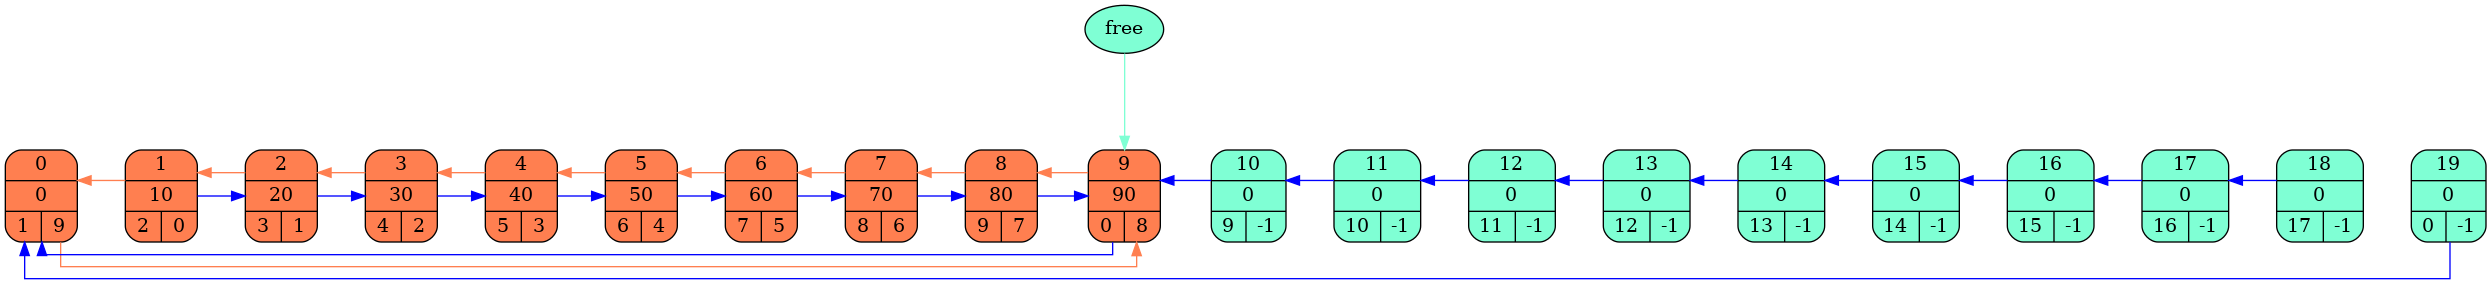
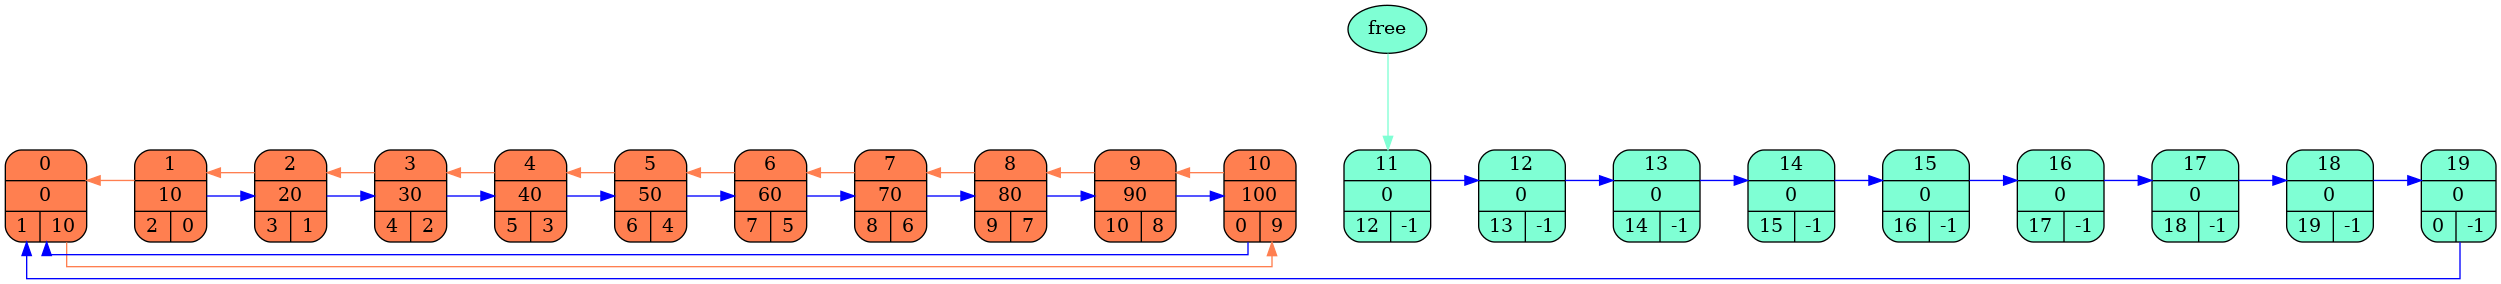
work version

diff --git a/res/log.html b/res/log.html
@@ -189,31 +189,10 @@ prev:
 
 <pre>
 size:     9
-capacity: 10
-head:     0
-tail:     0
-free:     9
-n:
-         0         1         2         3         4         5         6         7         8         9
-
-data:
-         0        10        20        30        40        50        60        70        80        90
-
-next:
-         1         2         3         4         5         6         7         8         9         0
-
-prev:
-         9         0         1         2         3         4         5         6         7         8
-
-
-<img src="../res/output9.png" width="1200" height="250">
-
-<pre>
-size:     9
 capacity: 20
 head:     0
 tail:     0
-free:     9
+free:     10
 n:
          0         1         2         3         4         5         6         7         8         9        10        11        12        13        14        15        16        17        18        19
 
@@ -221,10 +200,31 @@ data:
          0        10        20        30        40        50        60        70        80        90         0         0         0         0         0         0         0         0         0         0
 
 next:
-         1         2         3         4         5         6         7         8         9         0         9        10        11        12        13        14        15        16        17         0
+         1         2         3         4         5         6         7         8         9         0        11        12        13        14        15        16        17        18        19         0
 
 prev:
          9         0         1         2         3         4         5         6         7         8        -1        -1        -1        -1        -1        -1        -1        -1        -1        -1
+
+
+<img src="../res/output9.png" width="1200" height="250">
+
+<pre>
+size:     10
+capacity: 20
+head:     0
+tail:     0
+free:     11
+n:
+         0         1         2         3         4         5         6         7         8         9        10        11        12        13        14        15        16        17        18        19
+
+data:
+         0        10        20        30        40        50        60        70        80        90       100         0         0         0         0         0         0         0         0         0
+
+next:
+         1         2         3         4         5         6         7         8         9        10         0        12        13        14        15        16        17        18        19         0
+
+prev:
+        10         0         1         2         3         4         5         6         7         8         9        -1        -1        -1        -1        -1        -1        -1        -1        -1
 
 
 <img src="../res/output10.png" width="1200" height="250">
@@ -242,7 +242,7 @@ data:
          0        10        20        30        40        50        60        70        80        90         0         0         0         0         0         0         0         0         0         0
 
 next:
-         1         2         3         4         5         6         7         8         9         0         9        10        11        12        13        14        15        16        17         0
+         1         2         3         4         5         6         7         8         9         0        11        12        13        14        15        16        17        18        19         0
 
 prev:
          9         0         1         2         3         4         5         6         7         8        -1        -1        -1        -1        -1        -1        -1        -1        -1        -1
@@ -251,107 +251,170 @@ prev:
 <img src="../res/output11.png" width="1200" height="250">
 
 <pre>
-size:     10
+size:     8
 capacity: 20
 head:     0
 tail:     0
-free:     11
+free:     9
 n:
          0         1         2         3         4         5         6         7         8         9        10        11        12        13        14        15        16        17        18        19
 
 data:
-         0        10        20        30        40        50        60        70        80        90       100         0         0         0         0         0         0         0         0         0
+         0        10        20        30        40        50        60        70        80         0         0         0         0         0         0         0         0         0         0         0
 
 next:
-         1         2         3         4         5         6         7         8         9        10         0        10        11        12        13        14        15        16        17         0
+         1         2         3         4         5         6         7         8         0        10        11        12        13        14        15        16        17        18        19         0
 
 prev:
-        10         0         1         2         3         4         5         6         7         8         9        -1        -1        -1        -1        -1        -1        -1        -1        -1
+         8         0         1         2         3         4         5         6         7        -1        -1        -1        -1        -1        -1        -1        -1        -1        -1        -1
 
 
 <img src="../res/output12.png" width="1200" height="250">
 
 <pre>
-size:     12
+size:     7
 capacity: 20
 head:     0
 tail:     0
-free:     13
+free:     8
 n:
          0         1         2         3         4         5         6         7         8         9        10        11        12        13        14        15        16        17        18        19
 
 data:
-         0        10        20        30        40        50        60        70        80        90       100        35        25         0         0         0         0         0         0         0
+         0        10        20        30        40        50        60        70         0         0         0         0         0         0         0         0         0         0         0         0
 
 next:
-         1         2        12        11         5         6         7         8         9        10         0         4         3        12        13        14        15        16        17         0
+         1         2         3         4         5         6         7         0         9        10        11        12        13        14        15        16        17        18        19         0
 
 prev:
-        12         0         1         2         3         4         5         6         7         8         9         3         2        -1        -1        -1        -1        -1        -1        -1
+         7         0         1         2         3         4         5         6        -1        -1        -1        -1        -1        -1        -1        -1        -1        -1        -1        -1
 
 
 <img src="../res/output13.png" width="1200" height="250">
 
 <pre>
-size:     13
+size:     6
 capacity: 20
 head:     0
 tail:     0
-free:     14
+free:     3
 n:
          0         1         2         3         4         5         6         7         8         9        10        11        12        13        14        15        16        17        18        19
 
 data:
-         0        10        20        30        40        50        60        70        80        90       100        35        25        15         0         0         0         0         0         0
+         0        10        20         0        40        50        60        70         0         0         0         0         0         0         0         0         0         0         0         0
 
 next:
-         1        13        12        11         5         6         7         8         9        10         0         4         3         2        13        14        15        16        17         0
+         1         2         4         8         5         6         7         0         9        10        11        12        13        14        15        16        17        18        19         0
 
 prev:
-        13         0         1         2         3         4         5         6         7         8         9         3         2         1        -1        -1        -1        -1        -1        -1
+         7         0         1        -1         2         4         5         6        -1        -1        -1        -1        -1        -1        -1        -1        -1        -1        -1        -1
 
 
 <img src="../res/output14.png" width="1200" height="250">
 
 <pre>
-size:     13
+size:     5
 capacity: 20
 head:     0
 tail:     0
-free:     14
+free:     3
 n:
          0         1         2         3         4         5         6         7         8         9        10        11        12        13        14        15        16        17        18        19
 
 data:
-         0        10        15        20        25        30        35        40        50        60        70        80        90       100         0         0         0         0         0         0
+         0        10        20         0        40         0        60        70         0         0         0         0         0         0         0         0         0         0         0         0
 
 next:
-         1         2         3         4         5         6         7         8         9        10        11        12        13         0        15        16        17        18        19         0
+         1         2         4         8         6         3         7         0         9        10        11        12        13        14        15        16        17        18        19         0
 
 prev:
-        13         0         1         2         3         4         5         6         7         8         9        10        11        12        -1        -1        -1        -1        -1        -1
+         7         0         1        -1         2        -1         4         6        -1        -1        -1        -1        -1        -1        -1        -1        -1        -1        -1        -1
 
 
 <img src="../res/output15.png" width="1200" height="250">
 
 <pre>
-size:     13
+size:     6
 capacity: 20
 head:     0
 tail:     0
-free:     14
+free:     5
 n:
          0         1         2         3         4         5         6         7         8         9        10        11        12        13        14        15        16        17        18        19
 
 data:
-         0        10        15        20        25        30        35        40        50        60        70        80        90       100         0         0         0         0         0         0
+         0        10        20        35        40         0        60        70         0         0         0         0         0         0         0         0         0         0         0         0
 
 next:
-         1         2         3         4         5         6         7         8         9        10        11        12        13         0        15        16        17        18        19         0
+         1         2         3         4         6         3         7         0         9        10        11        12        13        14        15        16        17        18        19         0
 
 prev:
-        13         0         1         2         3         4         5         6         7         8         9        10        11        12        -1        -1        -1        -1        -1        -1
+         7         0         1         2         3        -1         4         6        -1        -1        -1        -1        -1        -1        -1        -1        -1        -1        -1        -1
 
 
 <img src="../res/output16.png" width="1200" height="250">
+
+<pre>
+size:     7
+capacity: 20
+head:     0
+tail:     0
+free:     8
+n:
+         0         1         2         3         4         5         6         7         8         9        10        11        12        13        14        15        16        17        18        19
+
+data:
+         0        10        20        35        40        25        60        70         0         0         0         0         0         0         0         0         0         0         0         0
+
+next:
+         1         2         5         4         6         3         7         0         9        10        11        12        13        14        15        16        17        18        19         0
+
+prev:
+         7         0         1         5         3         2         4         6        -1        -1        -1        -1        -1        -1        -1        -1        -1        -1        -1        -1
+
+
+<img src="../res/output17.png" width="1200" height="250">
+
+<pre>
+size:     8
+capacity: 20
+head:     0
+tail:     0
+free:     9
+n:
+         0         1         2         3         4         5         6         7         8         9        10        11        12        13        14        15        16        17        18        19
+
+data:
+         0        10        20        35        40        25        60        70        15         0         0         0         0         0         0         0         0         0         0         0
+
+next:
+         1         8         5         4         6         3         7         0         2        10        11        12        13        14        15        16        17        18        19         0
+
+prev:
+         7         0         8         5         3         2         4         6         1        -1        -1        -1        -1        -1        -1        -1        -1        -1        -1        -1
+
+
+<img src="../res/output18.png" width="1200" height="250">
+
+<pre>
+size:     8
+capacity: 20
+head:     0
+tail:     0
+free:     9
+n:
+         0         1         2         3         4         5         6         7         8         9        10        11        12        13        14        15        16        17        18        19
+
+data:
+         0        10        15        20        25        35        40        60        70         0         0         0         0         0         0         0         0         0         0         0
+
+next:
+         1         2         3         4         5         6         7         8         0        10        11        12        13        14        15        16        17        18        19         0
+
+prev:
+         8         0         1         2         3         4         5         6         7        -1        -1        -1        -1        -1        -1        -1        -1        -1        -1        -1
+
+
+<img src="../res/output19.png" width="1200" height="250">
 

diff --git a/list.cpp b/list.cpp
@@ -51,7 +51,6 @@ void list_sort(list *lst) {
     assert(lst != nullptr && "null pointer");
 
     arr_list *data_sort = (arr_list *) calloc(lst->capacity, sizeof(arr_list));
-    printf("hgfgf\n");
     int next = lst->data[lst->head].next;
     unsigned i = 1;
     data_sort[0].elem = 0;
@@ -63,6 +62,8 @@ void list_sort(list *lst) {
         data_sort[i].next = i + 1;
         data_sort[i].prev = i - 1;
     }
+
+    lst->free = i;
 
     data_sort[0].prev = i - 1;
     data_sort[i - 1].next = 0;
@@ -78,7 +79,6 @@ void list_sort(list *lst) {
 
     lst->data = data_sort;
     lst->is_sorted = true;
-    dump(lst);
 }
 
 void list_realloc(list *lst) {
@@ -102,7 +102,7 @@ void list_realloc(list *lst) {
         
         for (; i < lst->capacity; i++) {
             data_copy[i].elem = 0;
-            data_copy[i].next = i - 1;
+            data_copy[i].next = i + 1;
             data_copy[i].prev = -1;
         }
 
@@ -110,7 +110,6 @@ void list_realloc(list *lst) {
         free(lst->data);
         lst->data = data_copy;
     }
-    dump(lst);
 }
 
 int list_insert(list *lst, int ind, elem_data_t value) {
@@ -123,11 +122,10 @@ int list_insert(list *lst, int ind, elem_data_t value) {
     lst->data[lst->free].elem = value;
     lst->data[lst->free].next = lst->data[ind].next;
     lst->data[lst->free].prev = ind;
+    lst->data[lst->data[ind].next].prev = lst->free;
     lst->data[ind].next = lst->free; 
-    lst->data[lst->head].prev = lst->free;
 
     lst->is_sorted = false;
-    
     lst->size++;
     int count = 0;
 
@@ -141,7 +139,6 @@ int list_insert(list *lst, int ind, elem_data_t value) {
     
     if (count == 0) {
         list_realloc(lst);
-        lst->free++;
     }
 
     return 0;
@@ -160,12 +157,12 @@ elem_data_t list_erase(list *lst, int ind) {
     lst->data[prev].next = next;
 
     lst->data[ind].elem = 0;
-    lst->data[ind].next = -1;
-    lst->data[ind].prev = lst->free - 1;
+    lst->data[ind].next = lst->free;
+    lst->data[ind].prev = -1;
     lst->size--;
 
     for (unsigned i = 1; i < lst->capacity; i++) {
-        if (lst->data[i].next == -1) {
+        if (lst->data[i].prev == -1) {
             lst->free = i;
             break;
         } else lst->free++;

diff --git a/main.cpp b/main.cpp
@@ -20,15 +20,19 @@ int main() {
     //     printf("%d\n", list_erase(&lst, ));
 
     // // } 
-    // printf("%d\n", list_erase(&lst, 2));
-    // dump(&lst);
-    // printf("%d\n", list_erase(&lst, lst.tail - 1));
-    // dump(&lst);
-    // printf("%d\n", list_erase(&lst, lst.tail - 1));
-    // dump(&lst);
+    printf("%d\n", list_erase(&lst, lst.size));
+    dump(&lst);
+    printf("%d\n", list_erase(&lst, lst.size));
+    dump(&lst);
+    printf("%d\n", list_erase(&lst, lst.size));
+    dump(&lst);
+    printf("%d\n", list_erase(&lst, 3));
+    dump(&lst);
+    printf("%d\n", list_erase(&lst, 5));
+    dump(&lst);
 
-    list_insert(&lst, 3, 35);
-    // dump(&lst);
+    list_insert(&lst, 2, 35);
+    dump(&lst);
     // list_insert(&lst, lst.tail, 50);
     // dump(&lst);
     list_insert(&lst, 2, 25);
@@ -38,7 +42,7 @@ int main() {
 
     list_sort(&lst);
     dump(&lst);
-    // list_insert(&lst, 3, 33);
+    // // list_insert(&lst, 3, 33);
 
 
     list_dtor(&lst);
